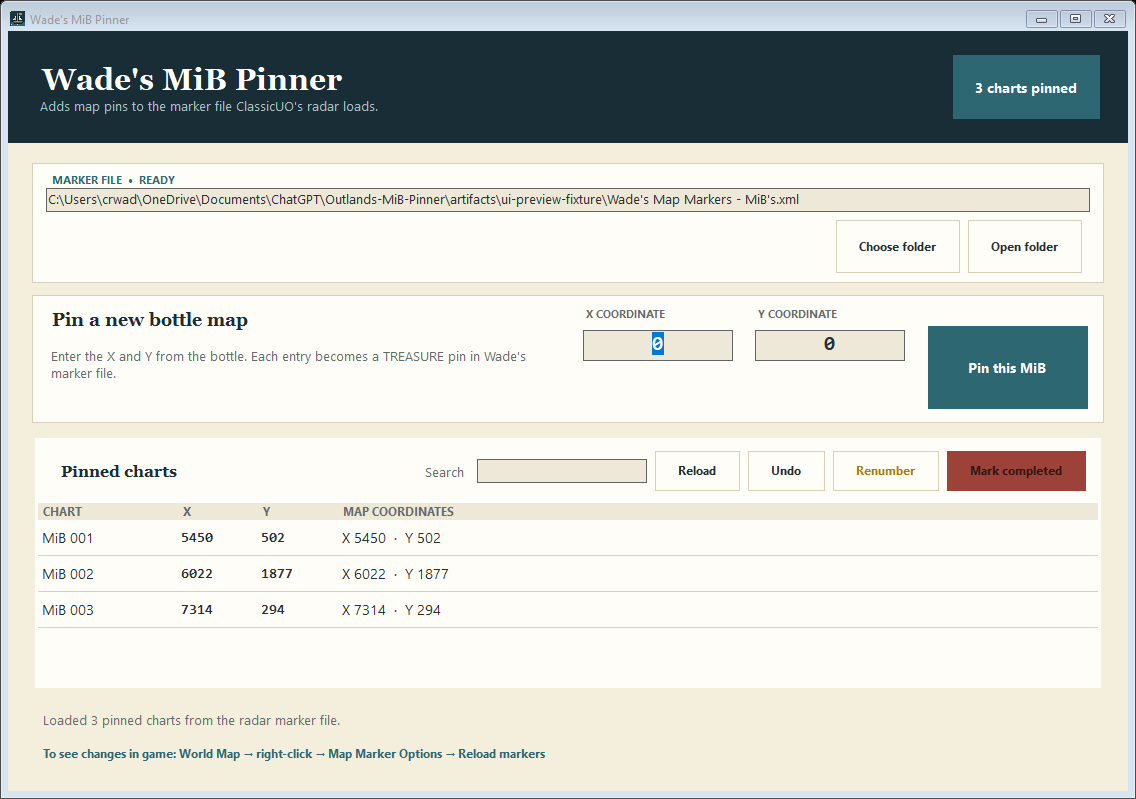
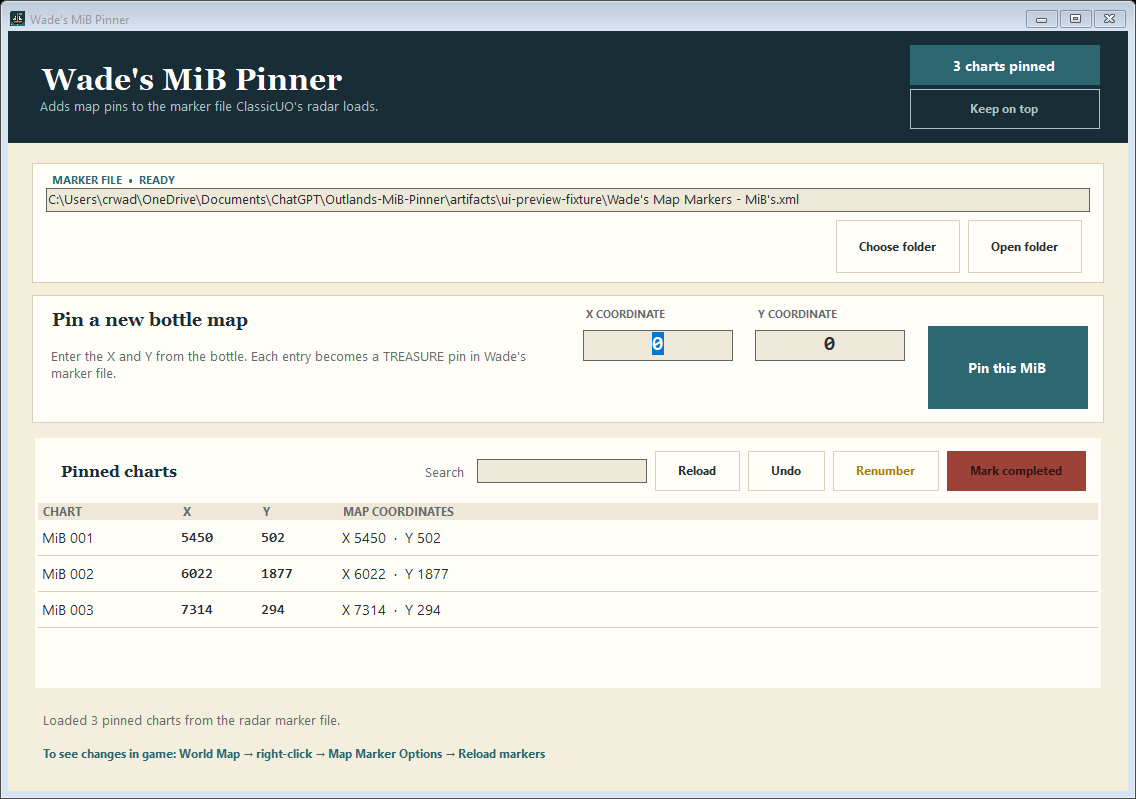
Add always-on-top window toggle

Changed region(s): [[0.8011, 0.03, 0.9859, 0.1502]]

diff --git a/src/WadesMiBPinner/MainForm.Layout.cs b/src/WadesMiBPinner/MainForm.Layout.cs
@@ -22,6 +22,7 @@ namespace WadesMiBPinner
         private MarkerFileStore _store;
 
         private Label _countLabel;
+        private Button _alwaysOnTopButton;
         private TextBox _pathTextBox;
         private Label _accessLabel;
         private Button _elevateButton;
@@ -109,19 +110,43 @@ namespace WadesMiBPinner
             subtitle.Margin = new Padding(1, 0, 0, 0);
             headerLayout.Controls.Add(subtitle, 0, 1);
 
+            TableLayoutPanel headerStatus = new BufferedTableLayoutPanel();
+            headerStatus.Dock = DockStyle.Fill;
+            headerStatus.AutoSize = true;
+            headerStatus.AutoSizeMode = AutoSizeMode.GrowAndShrink;
+            headerStatus.MinimumSize = new Size(190, 0);
+            headerStatus.BackColor = DeepWater;
+            headerStatus.ColumnCount = 1;
+            headerStatus.RowCount = 2;
+            headerStatus.RowStyles.Add(new RowStyle(SizeType.Percent, 50F));
+            headerStatus.RowStyles.Add(new RowStyle(SizeType.Percent, 50F));
+            headerStatus.Margin = new Padding(24, 0, 0, 0);
+            headerLayout.Controls.Add(headerStatus, 1, 0);
+            headerLayout.SetRowSpan(headerStatus, 2);
+
             _countLabel = new Label();
-            _countLabel.AutoSize = true;
+            _countLabel.AutoSize = false;
             _countLabel.Dock = DockStyle.Fill;
-            _countLabel.MinimumSize = new Size(0, 40);
+            _countLabel.MinimumSize = new Size(190, 38);
             _countLabel.Padding = new Padding(18, 0, 18, 0);
-            _countLabel.Margin = new Padding(24, 10, 0, 10);
+            _countLabel.Margin = new Padding(0, 0, 0, 2);
             _countLabel.TextAlign = ContentAlignment.MiddleCenter;
             _countLabel.BackColor = SeaGlass;
             _countLabel.ForeColor = Color.White;
             _countLabel.Font = new Font("Segoe UI", 10F, FontStyle.Bold, GraphicsUnit.Point);
             _countLabel.Text = "0 charts pinned";
-            headerLayout.Controls.Add(_countLabel, 1, 0);
-            headerLayout.SetRowSpan(_countLabel, 2);
+            headerStatus.Controls.Add(_countLabel, 0, 0);
+
+            _alwaysOnTopButton = CreateButton("Keep on top", DeepWater, DeepWaterMuted);
+            _alwaysOnTopButton.AutoSize = false;
+            _alwaysOnTopButton.MinimumSize = new Size(190, 38);
+            _alwaysOnTopButton.Margin = new Padding(0, 2, 0, 0);
+            _alwaysOnTopButton.Padding = new Padding(12, 0, 12, 0);
+            _alwaysOnTopButton.FlatAppearance.BorderColor = DeepWaterMuted;
+            _alwaysOnTopButton.AccessibleName = "Keep window on top";
+            _alwaysOnTopButton.AccessibleDescription = "Keep this window above Outlands and other applications";
+            _alwaysOnTopButton.Click += HandleAlwaysOnTopToggle;
+            headerStatus.Controls.Add(_alwaysOnTopButton, 0, 1);
 
             Panel content = new BufferedPanel();
             content.Dock = DockStyle.Fill;

diff --git a/tests/UiSmokeTests.cs b/tests/UiSmokeTests.cs
@@ -28,6 +28,13 @@ internal static class UiSmokeTests
                 FindControl<Label>(form, control => control.Text.Contains("Each entry becomes a TREASURE pin"));
                 FindControl<Label>(form, control => control.Text.StartsWith("To see changes in game:"));
 
+                Button alwaysOnTop = FindControl<Button>(form, control => control.AccessibleName == "Keep window on top");
+                Assert(!form.TopMost && alwaysOnTop.Text == "Keep on top", "Keep on top did not start in its safe off state.");
+                alwaysOnTop.PerformClick();
+                Application.DoEvents();
+                Assert(form.TopMost && alwaysOnTop.Text == "Pinned on top", "Keep on top did not enable the form's TopMost state.");
+                Assert(alwaysOnTop.AccessibleDescription.Contains("pinned above"), "Keep on top did not expose its active state to accessibility tools.");
+
                 TextBox x = FindControl<TextBox>(form, control => control.AccessibleName == "X coordinate");
                 TextBox y = FindControl<TextBox>(form, control => control.AccessibleName == "Y coordinate");
                 FindControl<Button>(form, control => control.Text == "Pin this MiB");
@@ -99,6 +106,10 @@ internal static class UiSmokeTests
                 Application.DoEvents();
                 Assert((string)grid.Rows[0].Cells[0].Value == "MiB 001" && (string)grid.Rows[1].Cells[0].Value == "MiB 002", "Renumbered labels were not reflected in the grid.");
                 Assert(!renumber.Enabled, "Renumber stayed enabled after labels became consecutive.");
+
+                alwaysOnTop.PerformClick();
+                Application.DoEvents();
+                Assert(!form.TopMost && alwaysOnTop.Text == "Keep on top", "Keep on top did not return the form to its normal window state.");
             }
 
             Console.WriteLine("PASS  loads the form and pins coordinates through the real add handler");

diff --git a/src/WadesMiBPinner/MainForm.Actions.cs b/src/WadesMiBPinner/MainForm.Actions.cs
@@ -2,6 +2,7 @@ using System;
 using System.Collections.Generic;
 using System.ComponentModel;
 using System.Diagnostics;
+using System.Drawing;
 using System.IO;
 using System.Linq;
 using System.Windows.Forms;
@@ -377,6 +378,29 @@ namespace WadesMiBPinner
         private void HandleElevate(object sender, EventArgs e)
         {
             PromptForElevation();
+        }
+
+        private void HandleAlwaysOnTopToggle(object sender, EventArgs e)
+        {
+            TopMost = !TopMost;
+            UpdateAlwaysOnTopState();
+            SetStatus(
+                TopMost
+                    ? "Pinned on top. This window will stay above Outlands until you turn it off."
+                    : "Keep on top is off. This window can move behind other applications.",
+                false);
+        }
+
+        private void UpdateAlwaysOnTopState()
+        {
+            _alwaysOnTopButton.Text = TopMost ? "Pinned on top" : "Keep on top";
+            _alwaysOnTopButton.BackColor = TopMost ? TreasureGold : DeepWater;
+            _alwaysOnTopButton.ForeColor = TopMost ? Color.White : DeepWaterMuted;
+            _alwaysOnTopButton.FlatAppearance.BorderColor = TopMost ? TreasureGold : DeepWaterMuted;
+            _alwaysOnTopButton.AccessibleDescription = TopMost
+                ? "This window is pinned above Outlands and other applications"
+                : "Keep this window above Outlands and other applications";
+            _alwaysOnTopButton.Invalidate();
         }
 
         private void PromptForElevation()

diff --git a/tests/UiSnapshot.cs b/tests/UiSnapshot.cs
@@ -66,7 +66,7 @@ internal static class UiSnapshot
                 Screen screen = Screen.FromControl(form);
                 int captureWidth = screen.Bounds.Width;
                 int captureHeight = screen.Bounds.Height;
-                form.TopMost = true;
+                FindButton(form, "Keep on top").PerformClick();
                 form.StartPosition = FormStartPosition.Manual;
                 form.Size = new Size(
                     Math.Max(form.MinimumSize.Width, Math.Min(form.Width, captureWidth - 40)),

diff --git a/src/WadesMiBPinner/Properties/AssemblyInfo.cs b/src/WadesMiBPinner/Properties/AssemblyInfo.cs
@@ -8,6 +8,6 @@ using System.Runtime.InteropServices;
 [assembly: AssemblyCopyright("Copyright © 2026 Chris Wade")]
 [assembly: ComVisible(false)]
 [assembly: Guid("9e705f0d-78a7-4660-9cc8-acde1567263f")]
-[assembly: AssemblyVersion("1.0.5.0")]
-[assembly: AssemblyFileVersion("1.0.5.0")]
+[assembly: AssemblyVersion("1.0.6.0")]
+[assembly: AssemblyFileVersion("1.0.6.0")]
 

diff --git a/README.md b/README.md
@@ -14,6 +14,8 @@ It has no installer, no account, no server, and no runtime to download. The rele
 
 Select one or more charts and choose **Mark completed** to remove their markers. **Undo** restores the most recent backup.
 
+On a single-monitor setup, choose **Keep on top** to pin the app above Outlands while you read map coordinates. Choose **Pinned on top** again when you want the app to behave like a normal window.
+
 ## How it works
 
 ClassicUO's radar system loads map pins from XML marker files in its `Data\Client` folder. Every coordinate added in Wade's MiB Pinner becomes a `TREASURE` map pin in `Wade's Map Markers - MiB's.xml`. Completing or undoing a chart updates that same file.
